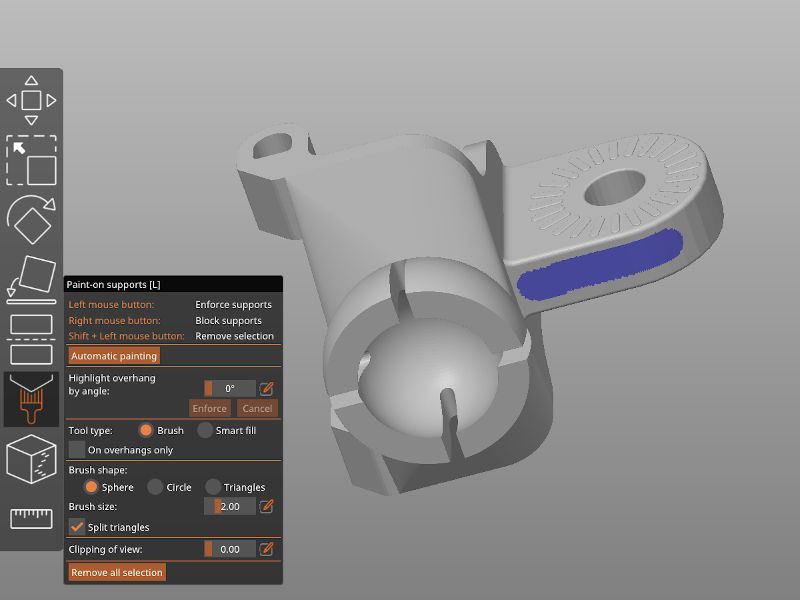
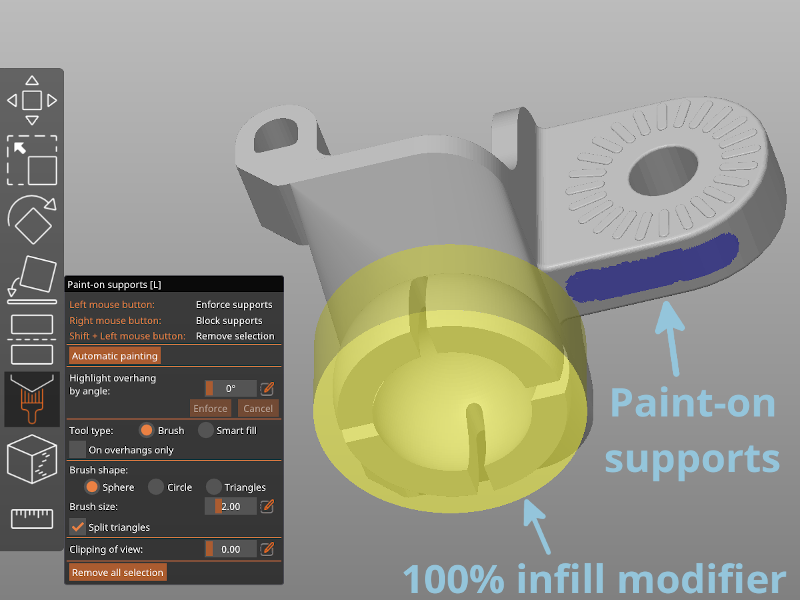
Add ball mount 100% infill recommendation

diff --git a/logitech-c920-slim-adapter/README.md b/logitech-c920-slim-adapter/README.md
@@ -51,6 +51,9 @@ the contact area with the bed is small. I had a few false starts printing these
 until I cleaned my print bed. Adapters with a ball mount and no shroud are
 especially tricky as the bed contact area is even smaller.
 
+For better ball mount strength, I recommend printing ball mount adapters with
+100% infill for the first 9 mm.
+
 ![Slicer screenshot of adapter with ball mount](images/readme/slicer-screenshot-ball.png)
 ![Slicer screenshot of adapter with ball mount and no shroud](images/readme/slicer-screenshot-ball-noshroud.png)
 
